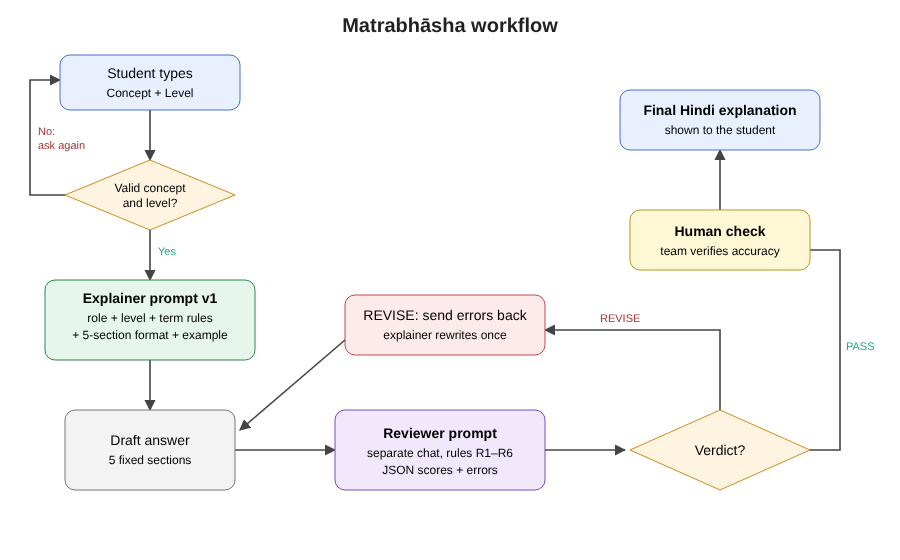
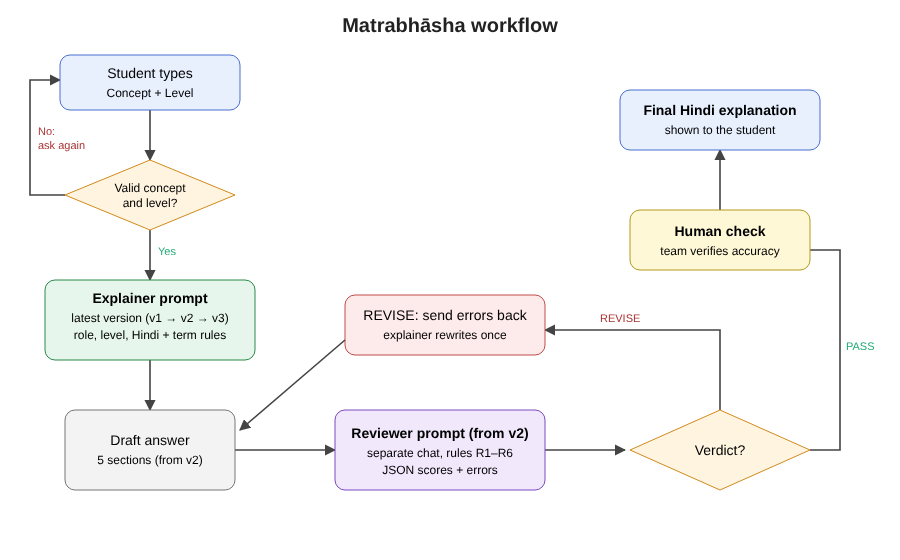
Update design and workflow diagram for the prompt ladder

Changed region(s): [[0.0622, 0.5161, 0.2489, 0.6071], [0.3733, 0.7589, 0.5911, 0.7893], [0.1244, 0.7893, 0.2178, 0.85]]

diff --git a/design/design.md b/design/design.md
@@ -6,28 +6,29 @@
 checked by a second reviewer prompt and a human before it is used.
 
 ## 2. Task decomposition
-The one big task ("explain this in Hindi") is split into smaller prompt tasks:
+The one big task ("explain this in Hindi") is split into smaller prompt tasks. The explainer prompt grows in versions
+(v0 → v3, see section 4), so the version in brackets says when each part is added.
 
 | Step | Who/what | Prompt technique |
 |---|---|---|
-| 1. Read input, check it's a valid CS concept and level | Explainer prompt | Input validation, refusal rule |
-| 2. Write explanation at the right depth | Explainer prompt | Role + audience-aware prompting, level constraints |
-| 3. Handle technical terms | Explainer prompt | Constraint: English term + Hindi gloss |
-| 4. Keep format fixed | Explainer prompt | Structured output, few-shot example |
+| 1. Read input, check it's a valid CS concept and level | Explainer prompt (v3) | Input validation, refusal rule |
+| 2. Write explanation at the right depth | Explainer prompt (v1 level, v2 limits) | Role + audience-aware prompting, level constraints |
+| 3. Handle technical terms | Explainer prompt (v1 keep English, v2 gloss) | Constraint: English term + Hindi gloss |
+| 4. Keep format fixed | Explainer prompt (v2 format, v3 example) | Structured output, few-shot example |
 | 5. Check accuracy, terms, tone, level, format | Reviewer prompt (separate chat) | Prompt chaining, LLM-as-judge, JSON output |
 | 6. Fix flagged problems | Explainer prompt (revision message) | Self-refinement from feedback |
 | 7. Final accuracy check | Team member | Human oversight |
 
 ## 3. Workflow diagram
-Image version: `workflow.png` (ready for slides/report) and `workflow.svg` (editable).
+Image version: `workflow.png` (ready for slides/report) and `workflow.svg` (editable). It shows the full planned workflow; the input check arrives with v3 and the reviewer from v2, so v1 is just "input → explainer → answer".
 
 ```mermaid
 flowchart TD
     U[Student types: Concept + Level] --> V{Valid CS concept<br/>and level?}
     V -- No --> Q[Ask to clarify, in Hindi]
     Q --> U
-    V -- Yes --> E[Explainer prompt v1<br/>role + level rules + term rules<br/>+ few-shot example]
-    E --> O[Draft answer<br/>5 fixed sections]
+    V -- Yes --> E[Explainer prompt<br/>latest version v1 / v2 / v3]
+    E --> O[Draft answer<br/>5 sections from v2]
     O --> R[Reviewer prompt<br/>separate chat, JSON scores R1-R6]
     R --> D{Verdict}
     D -- REVISE --> F[Send errors back to explainer<br/>rewrite once]
@@ -36,34 +37,37 @@ flowchart TD
     H --> S[Final Hindi explanation<br/>to student]
 ```
 
-## 4. Prompt architecture (what's inside the explainer prompt)
+## 4. Prompt architecture: the version ladder
+Each version keeps everything from the one before and adds only what the previous version's real failures showed was needed.
+
 ```mermaid
 flowchart LR
-    subgraph Explainer system prompt
-      A[ROLE<br/>friendly CS teacher] --> B[LEVELS<br/>Beginner / First-year limits]
-      B --> C[LANGUAGE RULES<br/>English term + gloss,<br/>no literal translation]
-      C --> D[ACCURACY RULES<br/>don't guess, refuse if unclear]
-      D --> F[OUTPUT FORMAT<br/>5 fixed headings]
-      F --> G[FEW-SHOT EXAMPLE<br/>team-written]
-    end
-    In[Concept + Level] --> A
-    G --> Out[Structured Hindi answer]
+    V0[v0 baseline<br/>one line] -->|M1 problems| V1[v1 short<br/>+ role, natural Hindi,<br/>level, keep English terms]
+    V1 -->|v1 error analysis| V2[v2 structured<br/>+ level limits, term gloss,<br/>5-section format]
+    V2 -->|v2 error analysis| V3[v3 detailed<br/>+ accuracy/refusal rules,<br/>analogy guidance, few-shot example]
+    V2 -.-> R[Reviewer prompt<br/>add-on from v2]
+    V3 -.-> R
 ```
+
+The arrows are the evidence steps: a version is only adopted after the previous one has been run, scored and its failures
+logged in `evaluation/error_analysis.md`. The v2 and v3 contents above are the planned additions and get edited to match what
+the team actually finds.
 
 ## 5. Evaluation flow
 ```mermaid
 flowchart LR
-    T[Test set<br/>25 concepts x 2 levels] --> A[A: v0 baseline]
-    T --> B[B: English + Google Translate]
-    T --> C[C: v1 prompt]
-    C --> D[D: v1 + reviewer loop]
-    A & B & C & D --> S1[Team rubric<br/>2 scorers, 7 criteria]
-    A & B & C --> S2[Blind student ratings<br/>naturalness, clarity, usefulness]
-    S1 & S2 --> Res[Results table + error analysis<br/>-> next prompt version]
+    T[Pilot: 10 concepts x 2 levels] --> V0[V0 baseline]
+    T --> TR[TR: English + Google Translate]
+    T --> V1[V1 short prompt]
+    V1 --> EA1[Score + error analysis] --> V2[V2 structured prompt]
+    V2 --> V2R[V2 + reviewer loop]
+    V2R --> EA2[Score + error analysis] --> V3[V3 in M3,<br/>full 50 cases, 3 models]
+    V0 & TR & V1 & V2 & V2R --> S1[Team rubric<br/>2 scorers, 7 criteria]
+    TR & V1 & V2 --> S2[Blind student ratings]
 ```
 
 ## 6. Interface
-No-code prototype: a **Gemini Gem** (main) and a **Custom GPT** (backup), both using the same v1 instructions.
+No-code prototype: a **Gemini Gem** (main) and a **Custom GPT** (backup), both using the same instructions: the latest adopted version (update the Gem each time a new version is adopted).
 The student just types `Concept: Stack | Level: Beginner`. The reviewer is a second Gem/GPT.
 See `build/build_guide.md`.
 
